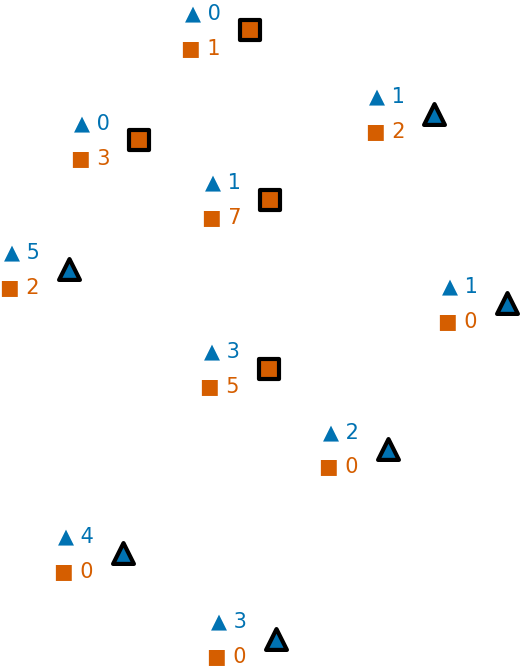
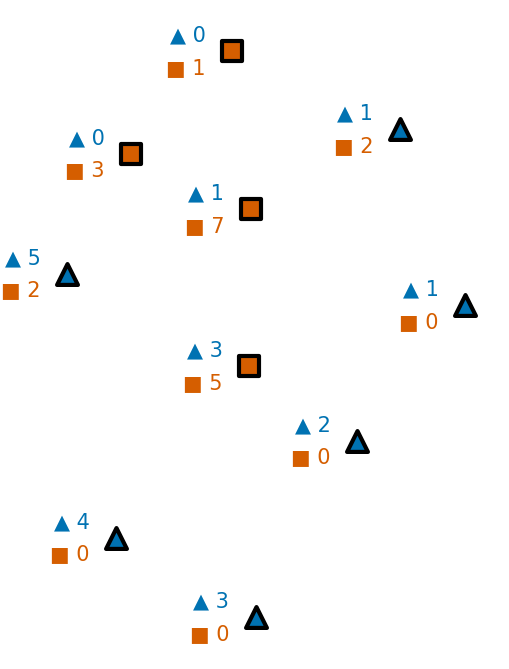
update plots for poster

diff --git a/poster/plots.py b/poster/plots.py
@@ -43,6 +43,8 @@ def plot_points(
     color_points=True,
     highlight=None,
     assignment=None,
+    show_lines=True,
+    hull=None,
     xlims=None,
     ylims=None,
     figsize=(4, 5),
@@ -80,7 +82,7 @@ def plot_points(
             )
 
     if assignment is not None and len(assignment.shape) == 1:
-        if not show_weights:
+        if not show_weights and show_lines:
             for point_id, center_id in enumerate(assignment):
                 p = data[point_id]
                 c = data[center_id]
@@ -138,6 +140,16 @@ def plot_points(
                             color=color_map[col],
                         )
 
+    if hull is not None:
+        import shapely
+
+        colors = ["red", "green"]
+        for c in highlight:
+            pdata = data[assignment == c]
+            pts = shapely.multipoints(pdata)
+            chull_x, chull_y = shapely.convex_hull(pts).buffer(hull).exterior.xy
+            plt.plot(chull_x, chull_y, c="black", lw=0.8)
+
     if xlims is not None:
         plt.xlim(xlims)
     if ylims is not None:
@@ -169,6 +181,8 @@ def simulation(n=20, seed=12345):
         highlight=clusterer.coreset_points_ids,
         assignment=clusterer.coreset_points_ids[clusterer.proxy],
         show_weights=False,
+        hull=0.2,
+        show_lines=False,
     )
     xlims = plt.xlim()
     ylims = plt.ylim()
@@ -195,6 +209,8 @@ def simulation(n=20, seed=12345):
         ],
         xlims=xlims,
         ylims=ylims,
+        hull=0.2,
+        show_lines=True,
     )
 
     plot_points(
@@ -217,6 +233,8 @@ def simulation(n=20, seed=12345):
         assignment=clusterer.centers[assignment],
         xlims=xlims,
         ylims=ylims,
+        hull=0.2,
+        show_lines=True,
     )
 
 
@@ -227,6 +245,8 @@ def example(
     symb_map=["▲", "■"],
     marker_map=["^", "s"],
 ):
+    from scipy.spatial import ConvexHull
+
     gen = np.random.default_rng(seed)
 
     g1 = gen.normal((0, 0), size=(n, 2))
@@ -239,18 +259,21 @@ def example(
 
     # unfair = kcenter.UnfairKCenter(2)
     # unfair_assignment = unfair.fit_predict(data, colors, fairness_constraints)
-    unfair_centers = np.array([6, n + 5])
+    unfair_centers = np.array([6, 37])
     unfair_assignment = np.array([0] * n + [1] * n).astype(np.int64)
+
     plot_points(
         "imgs/example-unfair.png",
         data,
         colors,
         highlight=unfair_centers,
         assignment=unfair_centers[unfair_assignment],
+        show_lines=False,
         figsize=(5, 3),
+        hull=0.4,
     )
 
-    fair_centers = np.array([15, 33])
+    fair_centers = np.array([6, 37])
     fair = kcenter.BeraEtAlKCenter(2, cplex_path, init_centers=fair_centers)
     fair_assignment = fair.fit_predict(data, colors, fairness_constraints)
     plot_points(
@@ -259,10 +282,11 @@ def example(
         colors,
         highlight=fair.centers,
         assignment=fair.centers[fair_assignment],
-        linestyle_map={fair.centers[0]: "--", fair.centers[1]: ":"},
+        show_lines=False,
         figsize=(5, 3),
+        hull=0.4,
     )
 
 
-# simulation(n=20)
-example()
+simulation(n=20)
+# example(seed=1234)
